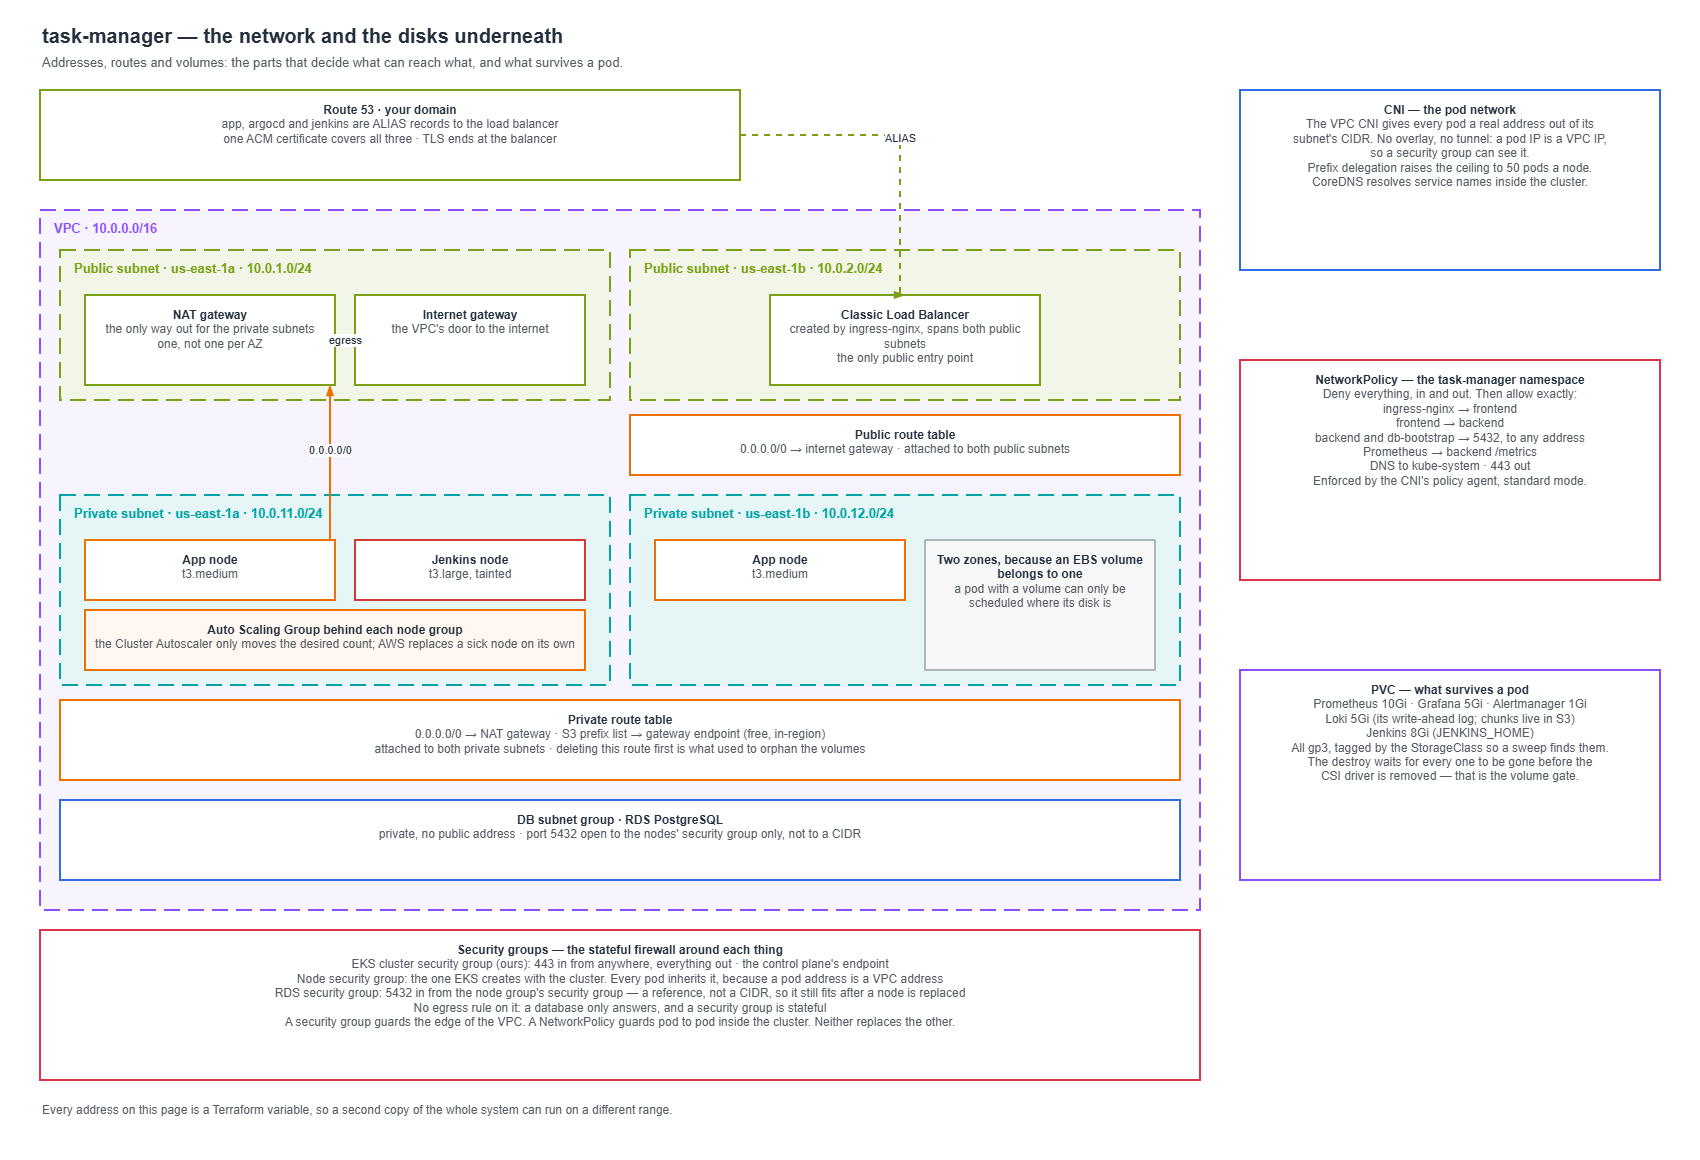
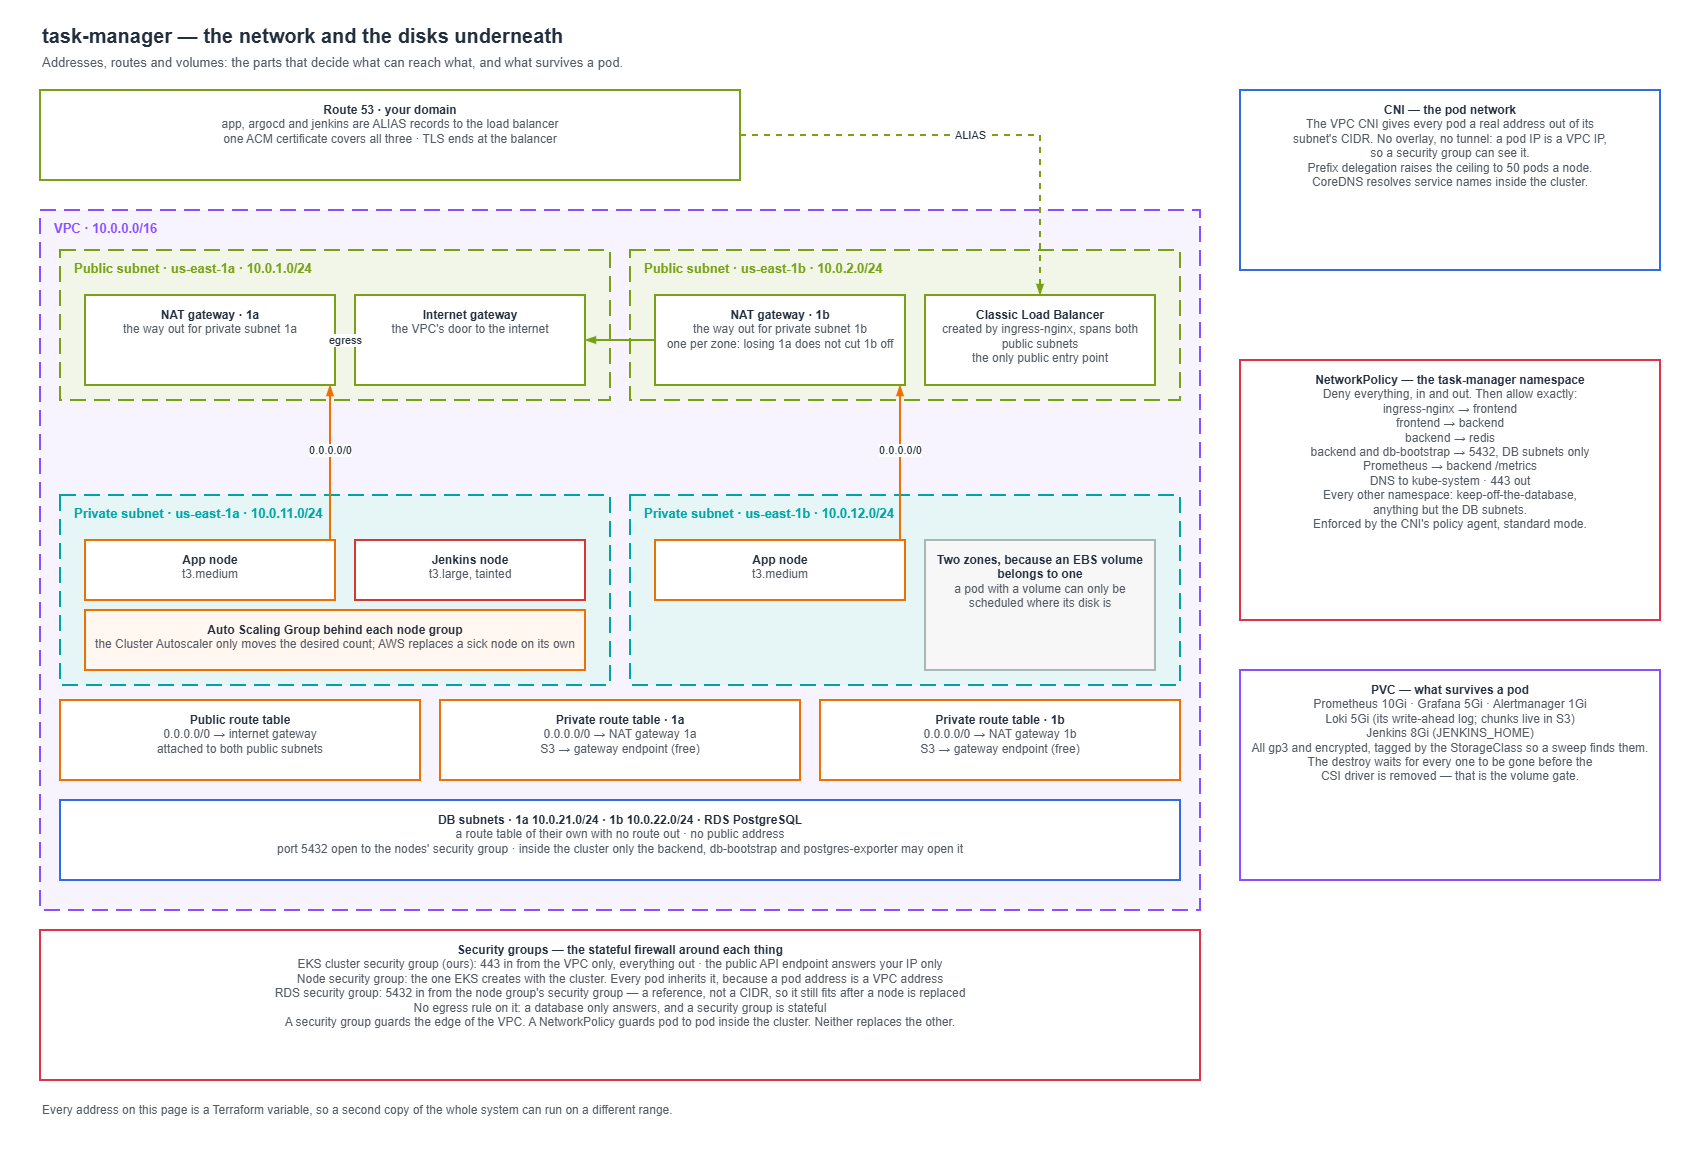
Redraw the network diagram: a NAT per zone, DB subnets, three route tables

diff --git a/HLD.md b/HLD.md
@@ -50,7 +50,7 @@ Browser → ingress → frontend → backend → database. Nothing skips a step.
 
 Which subnet each thing sits in, which route table sends its traffic where, and what a pod's address actually is:
 
-![Network and storage: the VPC and its four subnets, both route tables, the NAT gateway and internet gateway, the pod network, the NetworkPolicy, the volumes, and the security groups](docs/platform-network.png)
+![Network and storage: the VPC and its six subnets, its four route tables, a NAT gateway per zone and the internet gateway, the pod network, the NetworkPolicy, the volumes, and the security groups](docs/platform-network.png)
 
 ---
 
